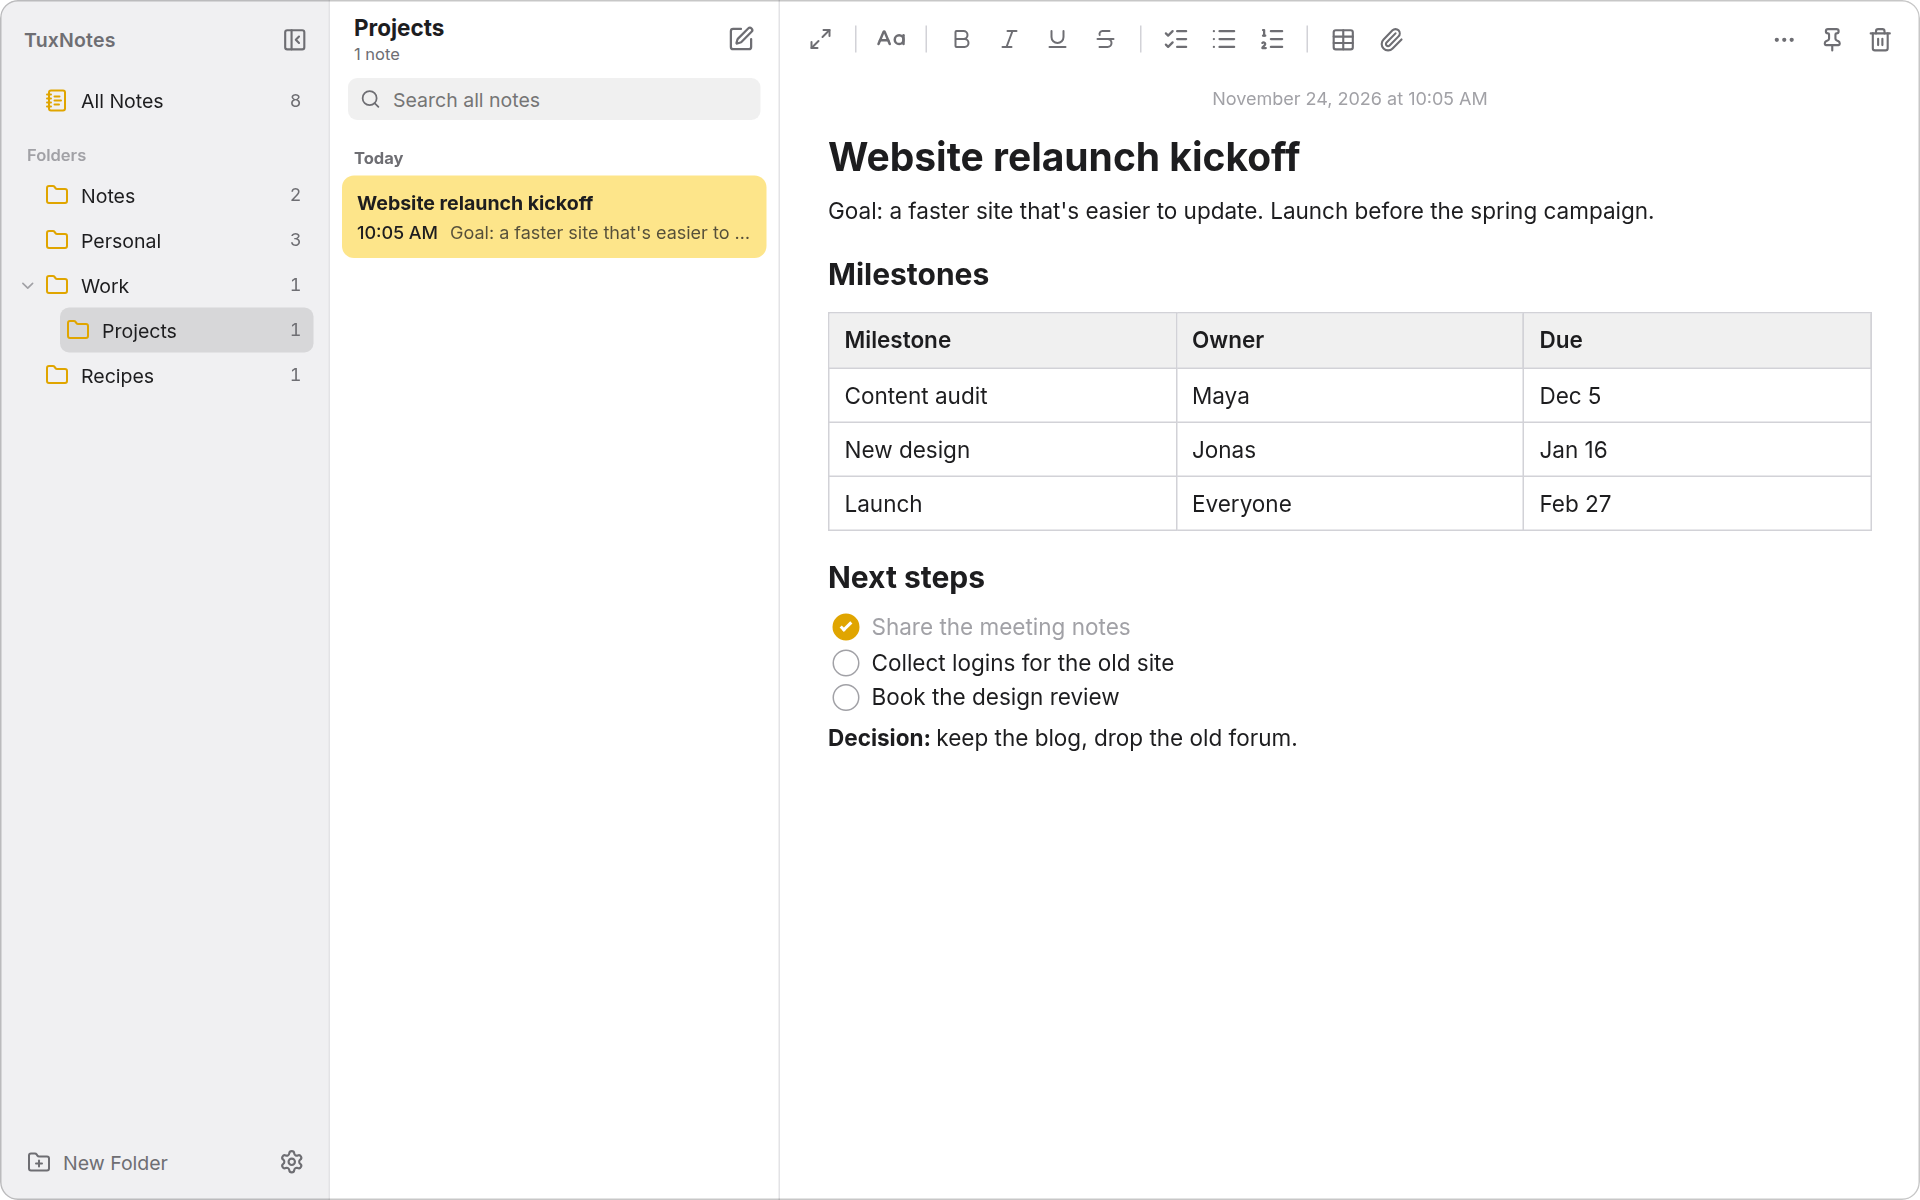
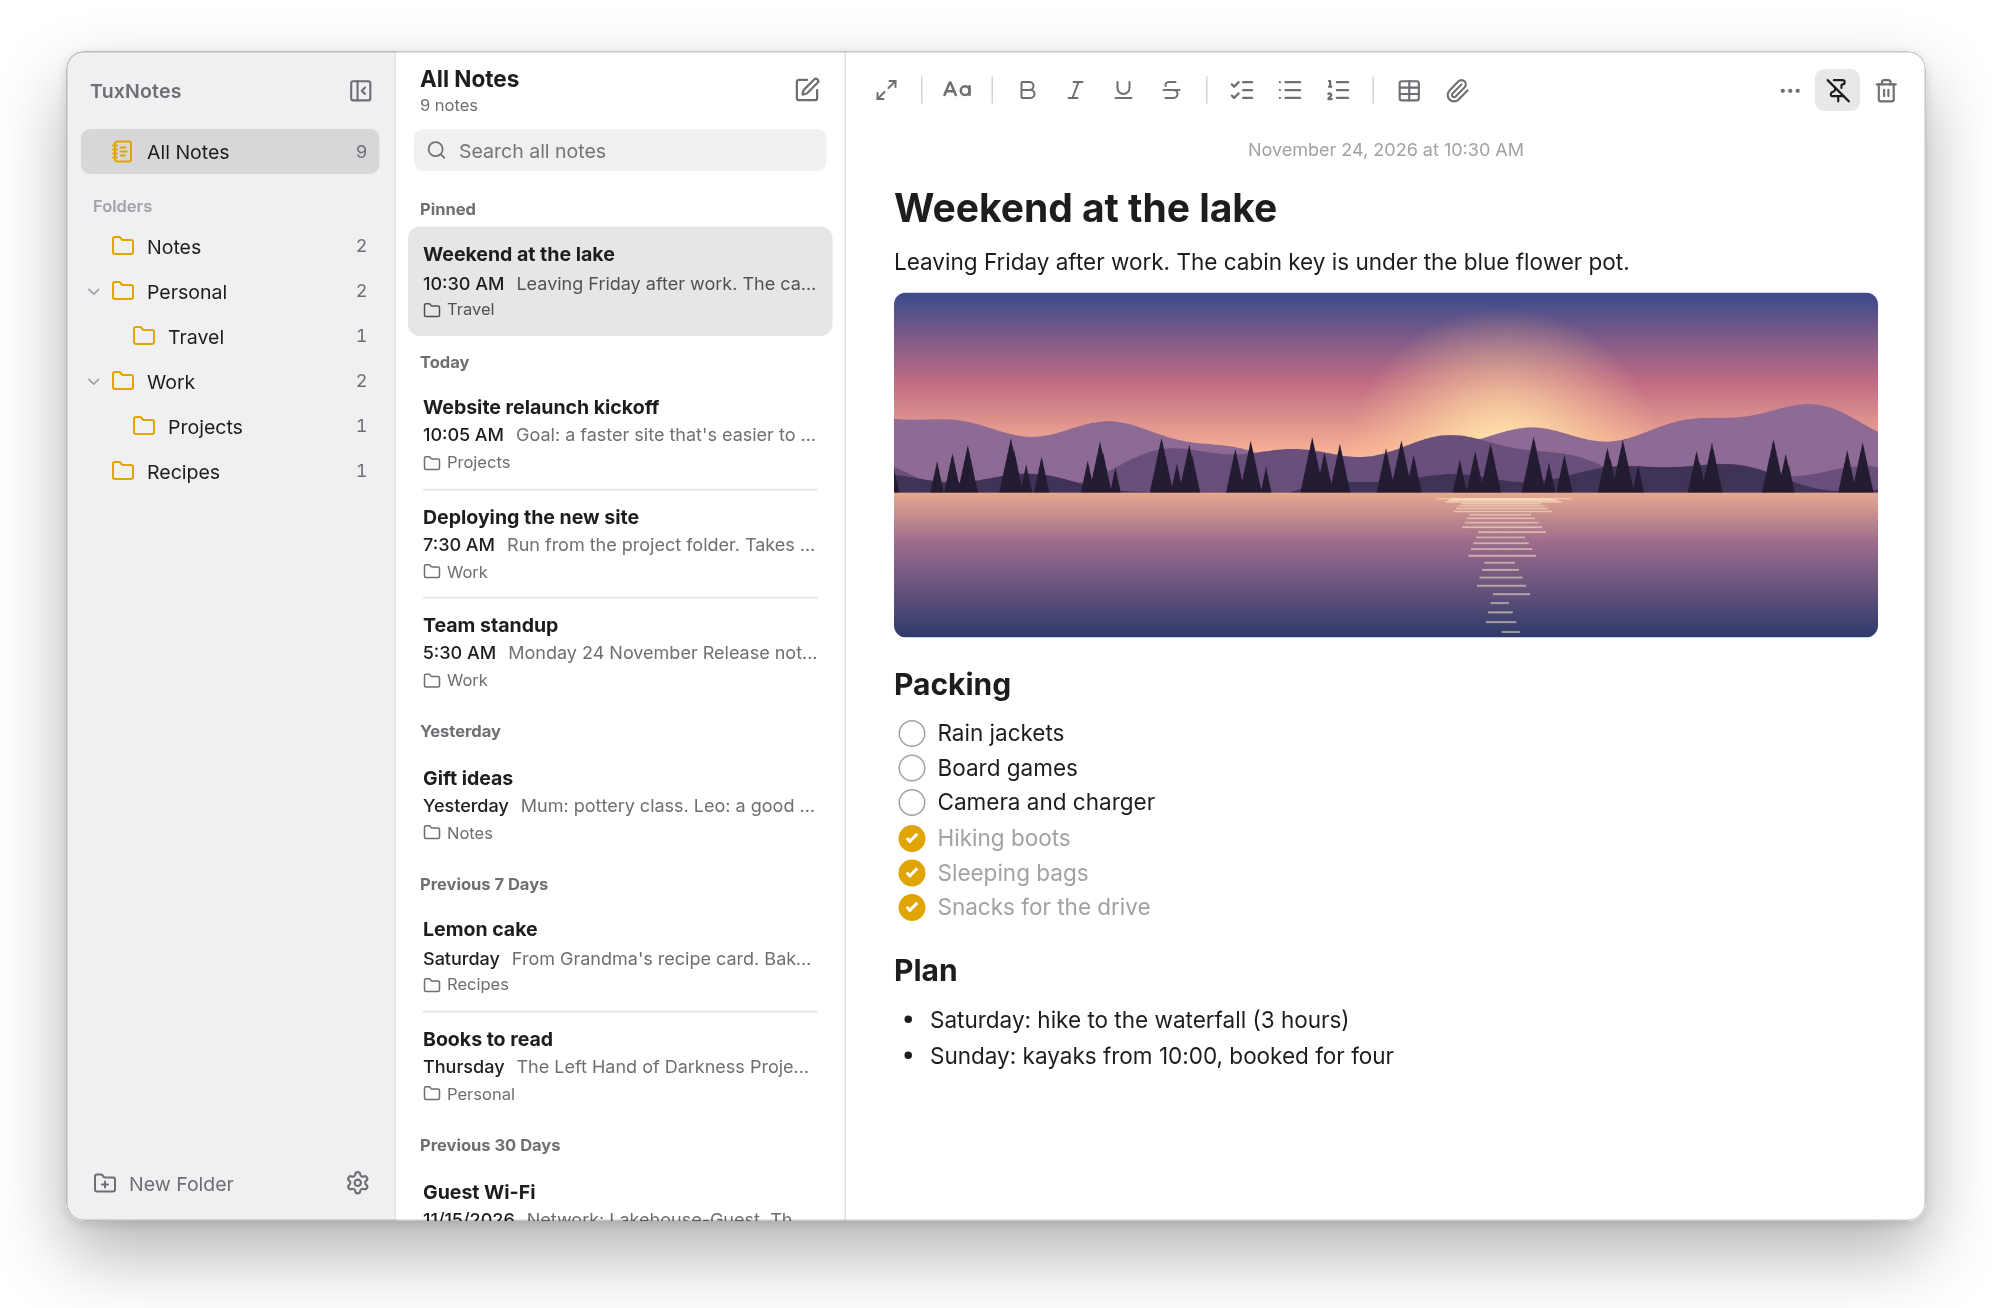
New screenshots: framed windows showing the newer features
npm run screenshots now draws the app as a floating window (transparent
around it, soft shadow) at 1.5x, with fuller sample notes: All Notes
with pinned and dated sections, a note with a picture (drawn by the
script and pasted like a screenshot), a code block, Files window files.

Seven screenshots: the main window (light), dark with a code block,
slash commands, the command palette, the Files window with code and
with a Markdown page, and backups to a folder. They replace the old
three; the app store description lists them with captions and
mentions the newer features.

Settings -> Backup's icon is a drive now instead of a cloud: backups
go to a folder first.

diff --git a/src/lib/components/SettingsDialog.svelte b/src/lib/components/SettingsDialog.svelte
@@ -2,7 +2,7 @@
   // The Settings window (Ctrl+,): General, Appearance, Backup, Shortcuts, About.
   import { onMount } from "svelte";
   import { openUrl, revealItemInDir } from "@tauri-apps/plugin-opener";
-  import { Cloud, Info, Keyboard, Palette, SlidersHorizontal, X } from "@lucide/svelte";
+  import { HardDriveUpload, Info, Keyboard, Palette, SlidersHorizontal, X } from "@lucide/svelte";
   import { api, isTauri } from "../api";
   import { app, type SettingsSection } from "../stores/app.svelte";
   import { AUTO_LOCK_CHOICES, prefs, type AutoLock, type FirstLine, type SortBy, type TextSize, type Theme } from "../stores/prefs.svelte";
@@ -15,10 +15,10 @@
 
   const REPO_URL = "https://github.com/Rick8509/TuxNotes";
 
-  const sections: { id: SettingsSection; label: string; icon: typeof Cloud }[] = [
+  const sections: { id: SettingsSection; label: string; icon: typeof Info }[] = [
     { id: "general", label: "General", icon: SlidersHorizontal },
     { id: "appearance", label: "Appearance", icon: Palette },
-    { id: "backup", label: "Backup", icon: Cloud },
+    { id: "backup", label: "Backup", icon: HardDriveUpload },
     { id: "shortcuts", label: "Shortcuts", icon: Keyboard },
     { id: "about", label: "About", icon: Info },
   ];
